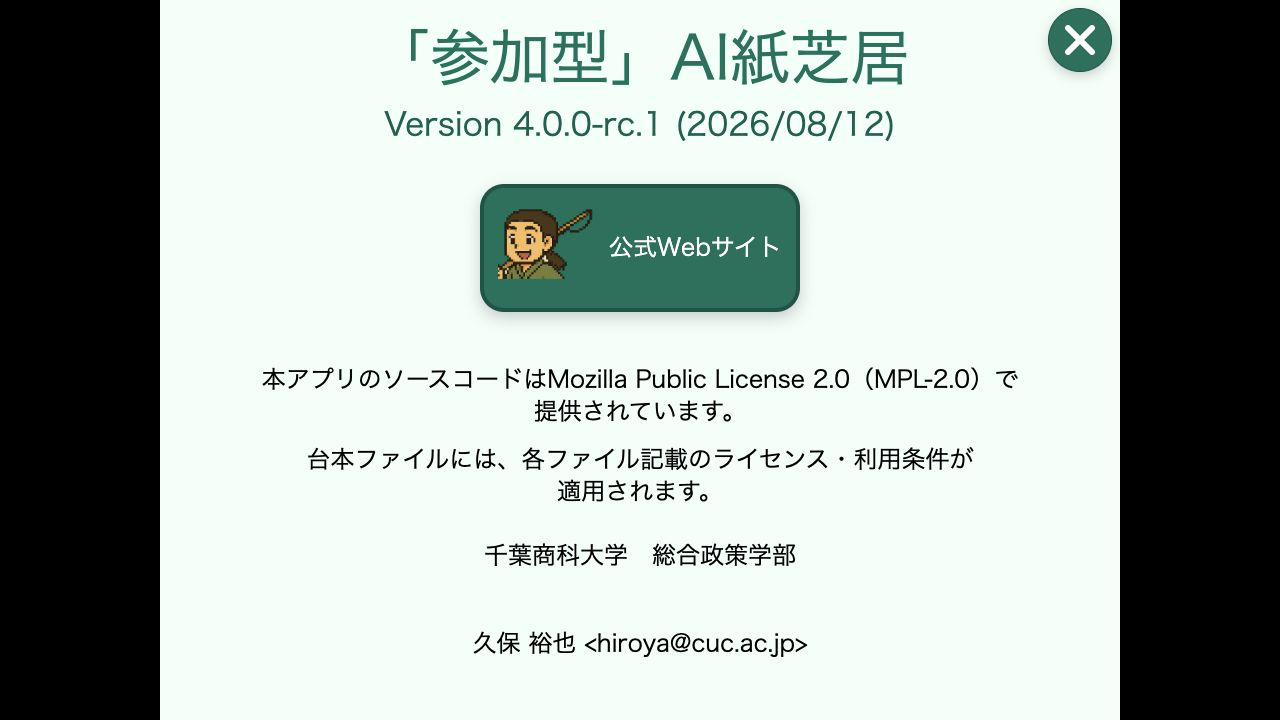
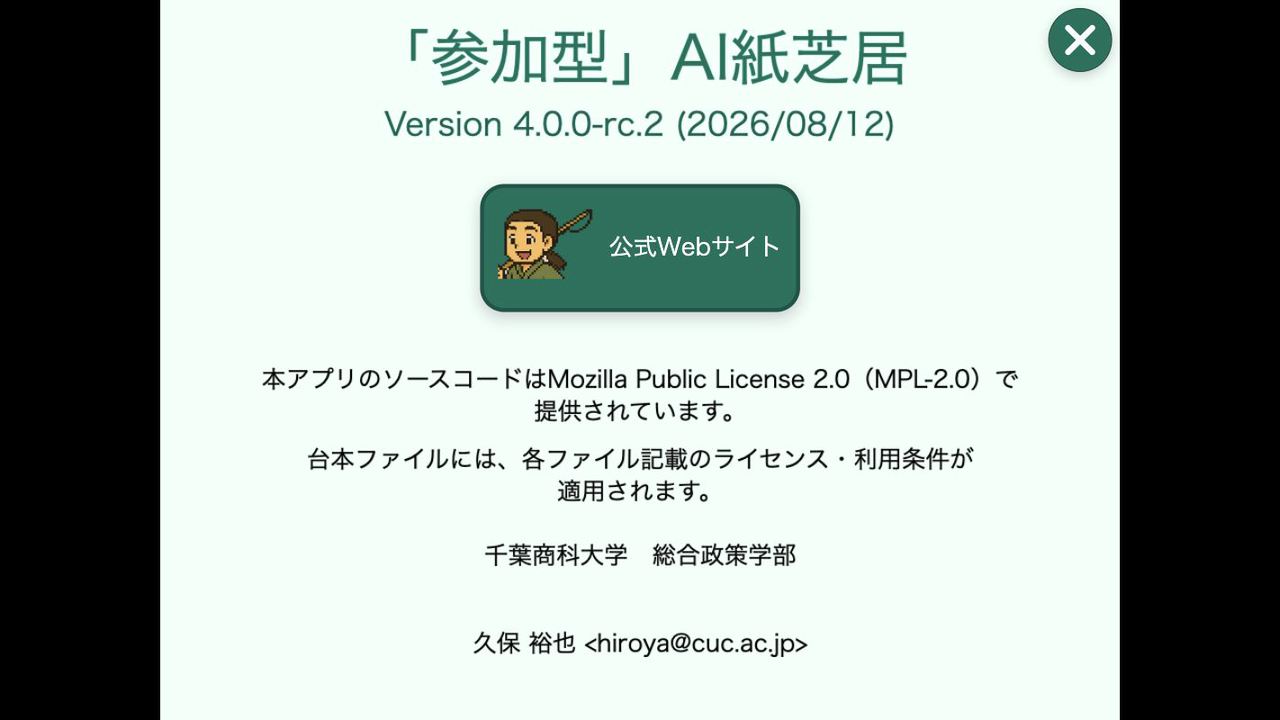
docs(tutorials): 「遊ぶ」をrc.2へ同期する (#123)
Closes #122

diff --git a/docs/tutorials/play.md b/docs/tutorials/play.md
@@ -2,7 +2,7 @@
 
 Copyright © 2026 Hiroya Kubo. この文書は[CC BY-SA 4.0](https://creativecommons.org/licenses/by-sa/4.0/)で提供します。
 
-対象バージョン: `4.0.0-rc.1`（公開プレリリース）\
+対象バージョン: `4.0.0-rc.2`（公開プレリリース）\
 対象: 初めてTMPose紙芝居を再生する人\
 想定時間: 10〜15分
 
@@ -40,7 +40,7 @@ Copyright © 2026 Hiroya Kubo. この文書は[CC BY-SA 4.0](https://creativecom
 ## 1. サンプル作品を選ぶ
 
 [チュートリアル用サンプル作品](https://kubohiroya.github.io/tmpose-kamishibai-samples/stories/tutorial/)を開き、
-「Web版を開く」を押します。作品の説明で、対象バージョンが`4.0.0-rc.1`であることと、カメラを
+「Web版を開く」を押します。作品の説明で、対象バージョンが`4.0.0-rc.2`であることと、カメラを
 使うことを確認してから開きます。
 
 <!-- screenshot:P-01 -->
@@ -55,11 +55,11 @@ Web版へ直接進む場合は、
 ## 2. 紙芝居を開始する
 
 Web版を開くと、最初に黒い読み込み画面が表示され、その後にバージョンとライセンスの画面が
-表示されます。`Version 4.0.0-rc.1`を確認し、右上の「閉じる」を押すと作品が始まります。
+表示されます。`Version 4.0.0-rc.2`を確認し、右上の「閉じる」を押すと作品が始まります。
 
 <!-- screenshot:P-02 -->
 
-![Version 4.0.0-rc.1とライセンスを表示したWeb版の初期画面](../images/tutorials/dsl4/play/tutorial-play-02-title.png)
+![Version 4.0.0-rc.2とライセンスを表示したWeb版の初期画面](../images/tutorials/dsl4/play/tutorial-play-02-title.png)
 
 _バージョンと利用条件を確認し、右上の「閉じる」を押します。_
 
